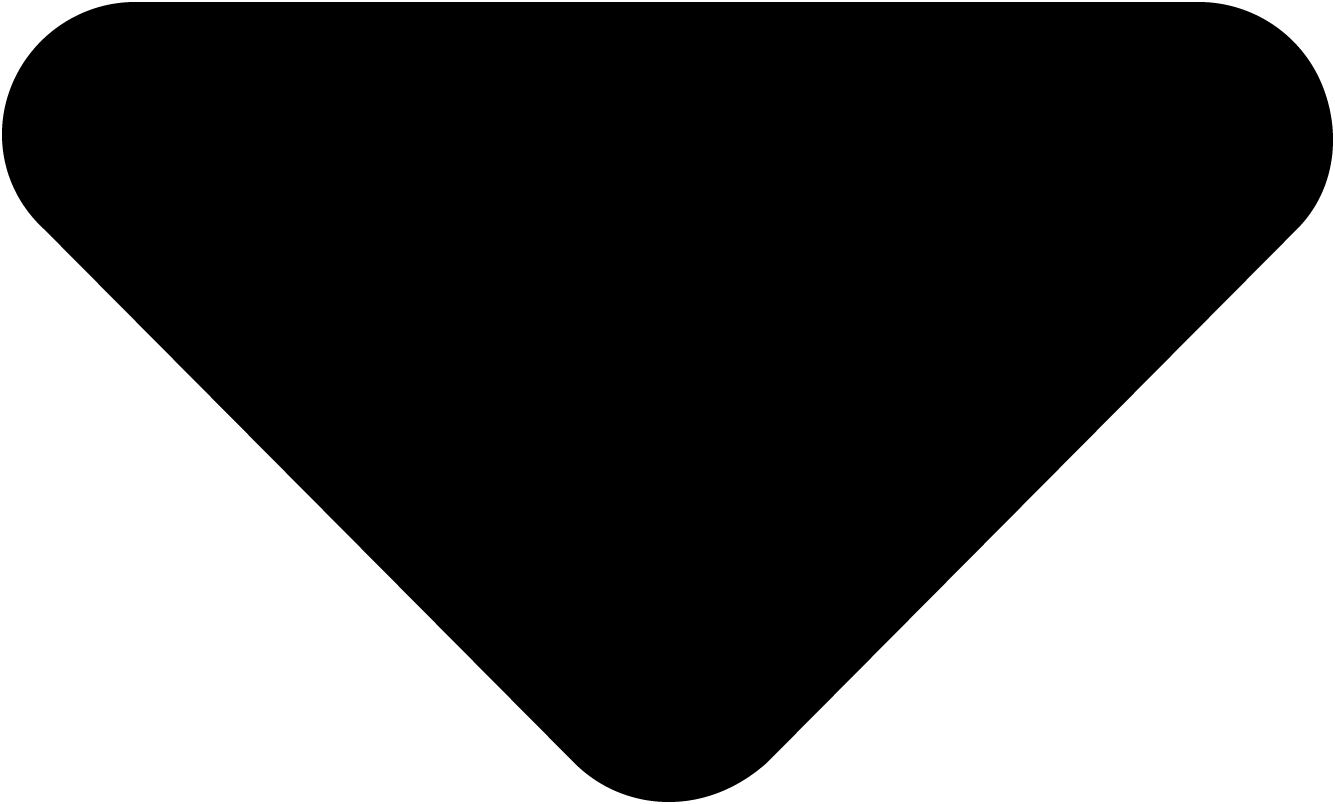
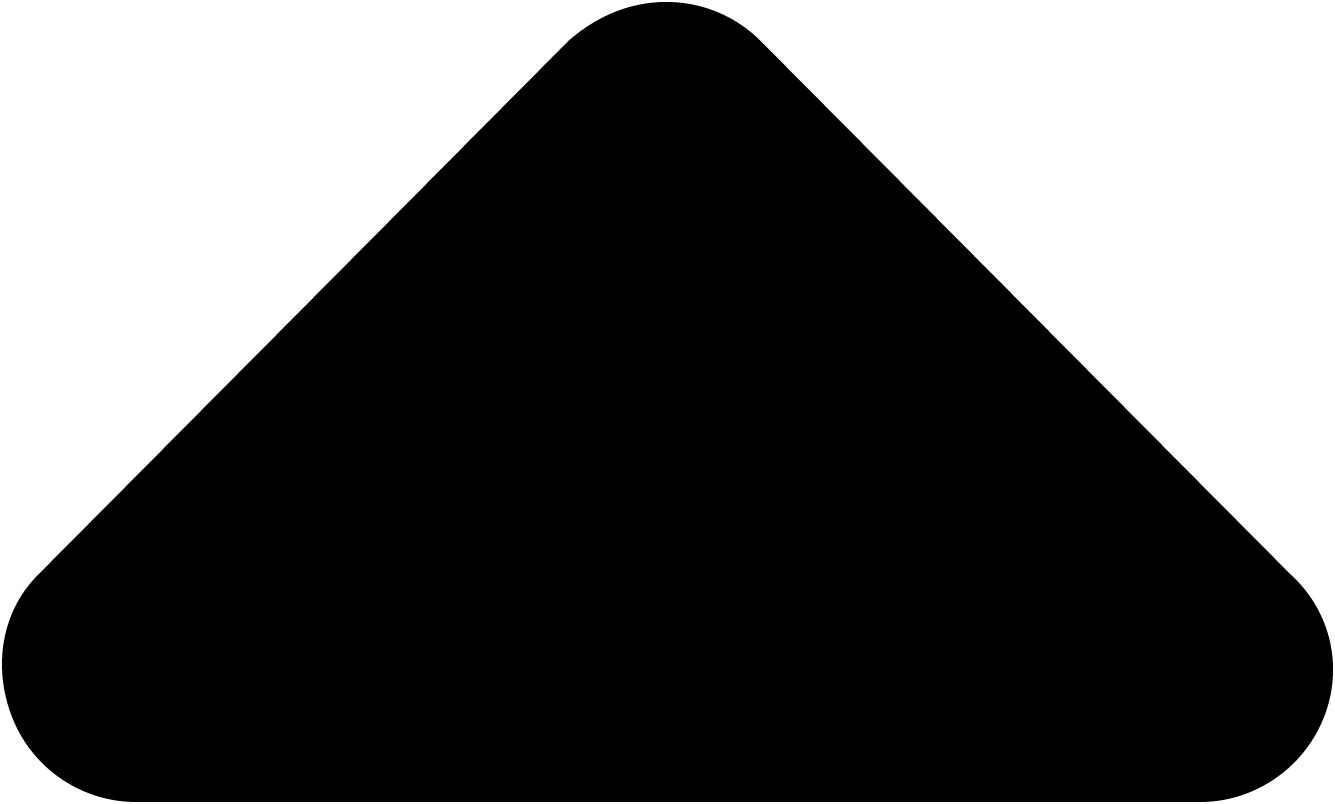
Paar bestanden van navbar toegevoegd

diff --git a/index.css b/index.css
@@ -1,0 +1,242 @@
+:root {
+    --bluebackgroundcolor: #05386B;
+    --blackorwhitebackground: #282828;
+    --blackorwhitetextcolor: white;
+    --imagefilterwhite: invert(0%) sepia(90%) saturate(0%) hue-rotate(295deg) brightness(100%) contrast(101%);
+    --imagefilterblack: invert(97%) sepia(0%) saturate(7461%) hue-rotate(54deg) brightness(111%) contrast(101%);
+    --imagefilterblue: invert(20%) sepia(34%) saturate(2363%) hue-rotate(185deg) brightness(89%) contrast(105%);
+  }
+
+body {
+    background-color: var(--blackorwhitebackground);
+    font-family: Segoe UI, Frutiger, Frutiger Linotype, Dejavu Sans, Helvetica Neue, Arial, sans-serif;
+    font-size: 14px;
+    margin: 0;
+    padding: 0;
+}
+
+
+.dropdownicon {
+    height: 7px;
+    filter: var(--imagefilterblack);
+}
+
+
+.icon,
+.search2,
+.xicon {
+
+    display: flex;
+    height: 25px;
+    width: 25px;
+    margin-left: 10px;
+    margin-right: 10px;
+    padding: 5px;
+}
+
+
+
+.search2,
+.xicon {
+    transition: 0.4s;
+    height: 25px;
+    width: 25px;
+    border-radius: 20px 20px 20px 20px;
+
+}
+.search2 {
+    background-color: var(--blackorwhitebackground);
+}
+
+
+.divdiv {
+    display: flex;
+    flex-direction: column;
+}
+
+#search {
+    position: absolute;
+    right: 220px;
+    width: 150px;
+    height: 25px;
+    transition: 0.4s ease-in-out;
+    border: none;
+    display: none;
+}
+
+#xicon {
+    position: absolute;
+    right: 375px;
+    transition: 0.4s ease-in-out;
+    display: none;
+    filter: var(--imagefilterblack);
+    
+}
+
+textarea:focus,
+input:focus {
+    outline: none;
+    background-color: var(--blackorwhitebackground);
+}
+input{
+    background-color: var(--blackorwhitebackground);
+    color: var(--blackorwhitetextcolor);
+}
+.buttonsearch {
+    display: none;
+}
+
+#submitbutton {
+    background: transparent;
+    border: none;
+    height: 25px;
+    width: 25px;
+    font-size: 0;
+    display: none;
+    position: absolute;
+    right: 205px;
+    
+}
+
+.buttons {
+    display: flex;
+    justify-content: space-around;
+    align-items: center;
+    flex-direction: column;
+}
+#list1, #list2, #list3, #list4{
+    transition: 0.4s ease-in-out;
+    display: none;
+    padding: 0;
+    margin: 0;
+    top: 50px;
+    position: absolute;
+    width: auto;
+    padding: 5px 65px 15px 60px;
+    text-align: center;
+    color: white;
+
+}
+a > li {
+    margin-bottom: 15px;
+}
+
+a:link {
+    color: white;
+}
+a, ul{
+    list-style-type: none;
+    text-decoration: none;
+}
+#colorbottom1, #colorbottom2, #colorbottom3, #colorbottom4{
+    transition: 0.4s ease-in-out;
+    display: none;
+    position: absolute;
+    width: auto;
+    top: 275px;
+    padding: 5px 207px 15px 0px;
+    height: 15px;
+    border-radius: 0px 0px 15px 15px;
+
+    background-color: var(--bluebackgroundcolor);
+}
+#colorbottom2 {
+    padding: 5px 198px 15px 0px;
+    top: 160px;
+}
+#colorbottom3{
+    padding: 5px 236px 15px 0px;
+    top: 125px;
+}
+#colorbottom4{
+    padding: 5px 125px 15px 0px;
+    top: 125px;
+}
+#tab4 {
+    width: 25px;
+    height: 25px;
+    background-color: none;
+}
+.tabs2{
+    transition: 0.4s ease-in-out;
+    text-align: center;
+    width: auto;
+    padding: 12px 50px 12px 50px;
+    margin-top: 2px;
+    margin-left: 5px;
+    margin-right: 5px;
+    border-radius: 15px 15px 0px 0px;
+    background-color: none;
+}
+#dropdownicon4{
+    display: none;
+}
+
+nav {
+    width: 100%;
+    height: 50px;
+    display: flex;
+    align-items: center;
+    justify-content: space-between;
+    background: var(--bluebackgroundcolor);
+    color: #ffffff;
+    flex-direction: row;
+}
+
+.notchlogo {
+    display: flex;
+    margin-left: 20px;
+    height: 40px;
+    width: auto;
+}
+.tab{
+    background-color: var(--blackorwhitebackground);
+    color: var(--blackorwhitebackground);
+    width: auto;
+    padding: 5px 50px 15px 50px;
+    margin-top: 26px;
+    border-radius: 15px 15px 0px 0px
+}
+
+
+.endnav {
+    display: flex;
+
+}
+
+.middlenav {
+    display: flex;
+    justify-content: space-around;
+    width: 100%;
+    align-items: center;
+}
+
+.tabs {
+    text-align: center;
+    width: auto;
+    padding: 5px 50px 15px 50px;
+    margin-top: 26px;
+
+    border-radius: 15px 15px 0px 0px
+}
+.selectedtab {
+    background-color: var(--blackorwhitebackground);
+    color: var(--blackorwhitetextcolor);
+    width: auto;
+    padding: 5px 50px 15px 50px;
+    margin-top: 26px;
+
+    border-radius: 15px 15px 0px 0px
+}
+.tabs:hover {
+    background-color: var(--blackorwhitebackground);
+    color: var(--blackorwhitetextcolor);
+    transition: 0.4s ease-in-out;
+    
+}
+.search2:hover{
+    cursor: pointer;
+}
+#searchimage{
+    filter: var(--imagefilterblack);
+}

diff --git a/js/dropdown.js b/js/dropdown.js
@@ -1,0 +1,49 @@
+
+function dropdown(number) {
+    var dropdownnumber = 'dropdownicon' + number;
+    var dropdownlist = 'list' + number;
+    var colorbottom = 'colorbottom' + number;
+    var tab = 'tab' + number;
+    if(document.getElementById(dropdownnumber).style.transform != 'rotate(180deg)') {
+        document.getElementById(dropdownnumber).style.transition = '0.4s ease-in-out';
+    document.getElementById(dropdownnumber).style.transform = 'rotate(180deg)';
+    document.getElementById(dropdownlist).style.display = 'block';
+    document.getElementById(colorbottom).style.display = 'block';
+    console.log("open");
+    var opacity = 0;
+    opacitychanger();
+    function opacitychanger() {
+        if(opacity<1) {
+            opacity = opacity + 0.01;
+
+            setInterval(opacitychanger,20)
+            document.getElementById(tab).style.backgroundColor = 'var(--blackorwhitebackground)';
+            document.getElementById(dropdownlist).style.opacity = opacity;
+            document.getElementById(colorbottom).style.opacity = opacity;
+        
+        }
+    }
+    }
+    else {document.getElementById(dropdownnumber).style.transition = '0.4s ease-in-out';
+    document.getElementById(dropdownnumber).style.transform = 'rotate(0deg)';
+    var opacity = 1;
+    opacitychanger2();
+    function opacitychanger2() {
+        if(opacity>0) {
+            opacity = opacity - 1;
+            document.getElementById(dropdownlist).style.opacity = opacity;
+            document.getElementById(colorbottom).style.opacity = opacity;
+            setTimeout(() => {
+                document.getElementById(tab).style.backgroundColor = 'var(--bluebackgroundcolor)';
+                document.getElementById(tab).style.backgroundColor = 'none';
+                document.getElementById(dropdownlist).style.display = 'none';
+                document.getElementById(colorbottom).style.display = 'none';
+                console.log("close");
+            }, 200);
+
+
+        }
+    }
+}
+
+}

diff --git a/js/searchbar.js b/js/searchbar.js
@@ -9,9 +9,9 @@ function searchbarshower() {
 
 }
 function searchbarshower2() {
-    document.getElementById('search').style.display = 'inline-block';
+    document.getElementById('search').style.display = 'block';
     document.getElementById('search').style.width = '150px';
-    document.getElementById('xicon').style.display = 'inline-block';
+    document.getElementById('xicon').style.display = 'block';
 }
 
 function searchbarhider() {
@@ -20,10 +20,4 @@ function searchbarhider() {
     document.getElementById('xicon').style.display = 'none';
     document.getElementById('search2').style.padding = ' 5px 5px 5px 5px';
     document.getElementById('submitbutton').style.display = 'none';
-}
-function a()
-{
-document.write("<form id='form1' name='form1'action=''>");
-document.write(" <td><input name='name' type='text' id='name'/></td>");
- document.write("<td><input name='address' type='text' id='address'/></td>");
 }

diff --git a/index.php b/index.php
@@ -1,0 +1,75 @@
+<!DOCTYPE html>
+<html lang="en">
+<head>
+    <meta charset="UTF-8">
+    <meta http-equiv="X-UA-Compatible" content="IE=edge">
+    <meta name="viewport" content="width=device-width, initial-scale=1.0">
+    <link rel="stylesheet" href="index.css">
+    <script src="/js/searchbar.js"></script>
+    <script src="/js/dropdown.js"></script>
+    <title>Document</title>
+</head>
+<body>
+<nav>   
+        <a href="index.php"><img src="images/notchLogo.png" class="notchlogo"></a>
+        <div class="middlenav">
+            <div class="buttons">
+                <p onclick="dropdown(1)" id="tab1" class="selectedtab tabs">COMPONENTS <img src="images/caret-down-solidblack.png" alt="" class="dropdownicon" id="dropdownicon1"></p>
+                <ul id="list1">
+                    <a href="/cpu.php"><li>CPU</li></a>
+                    <a href="/gpu.php"><li>GPU</li></a>
+                    <a href="/motherboard.php"><li>MOTHERBOARD</li></a>
+                    <a href="/ram.php"><li>RAM</li></a>
+                    <a href="/ssd.php"><li>SSD</li></a>
+                    <a href="/fans.php"><li>FANS</li></a>
+                    <a href="/powersuply.php"><li>POWER SUPPLY</li></a>
+                </ul>
+                <div id="colorbottom1"></div>
+            </div>
+
+            <div class="buttons">
+            <p onclick="dropdown(2)" class="tabs" id="tab2">PERIPHERALS <img  onclick="dropdown2()" src="images/caret-down-solidblack.png" alt="" class="dropdownicon " id="dropdownicon2" ></p>
+            <ul id="list2">
+                    <a href="/cpu.php"><li>MOUSE</li></a>
+                    <a href="/gpu.php"><li>KEYBOARD</li></a>
+                    <a href="/motherboard.php"><li>HEADSET</li></a>
+                </ul>
+                <div id="colorbottom2"></div>
+            </div>
+            <div class="buttons">
+            <p onclick="dropdown(3)" class="tabs" id="tab3">PC'S AND LAPTOPS <img onclick="dropdown3()" src="images/caret-down-solidblack.png" alt="" class="dropdownicon " id="dropdownicon3"></p>
+            <ul id="list3">
+                    <a href="/pc.php"><li>PC</li></a>
+                    <a href="/laptops.php"><li>LAPTOPS</li></a>
+                </ul>
+                <div id="colorbottom3"></div>
+            </div>
+        </div>
+        <div class="endnav">
+            <img class="xicon" src="images/xicon.png" alt="xicon" id="xicon" onclick="searchbarhider()">
+            <div id="divdiv">
+
+                <form class="search2" id="search2" onclick="searchbarshower()" method="get">
+
+                    <input type="text" class="searchinput" id="search" name="searchinput">
+                    <img src="images/blacksearch.png" id="searchimage">
+                    <input type="submit" id="submitbutton">
+
+                </form>
+            </div>
+        </div>
+
+        <div class="buttons">
+            <img onclick="dropdown(4)"  id="tab4" onclick="dropdown4()" src="images/register.png" alt="" class=" tabs2"> <img onclick="dropdown4()" src="images/caret-down-solidblack.png" alt="" class="dropdownicon " id="dropdownicon4">
+            <ul id="list4">
+                    <a href="/cpu.php"><li>LOGIN</li></a>
+                    <a href="/gpu.php"><li>DARKMODE</li></a>
+                </ul>
+                <div id="colorbottom4"></div>
+            </div>
+        </div>
+        <img src="images/shoppingCard.png" class="icon">
+
+    </nav>
+</body>
+</html>
